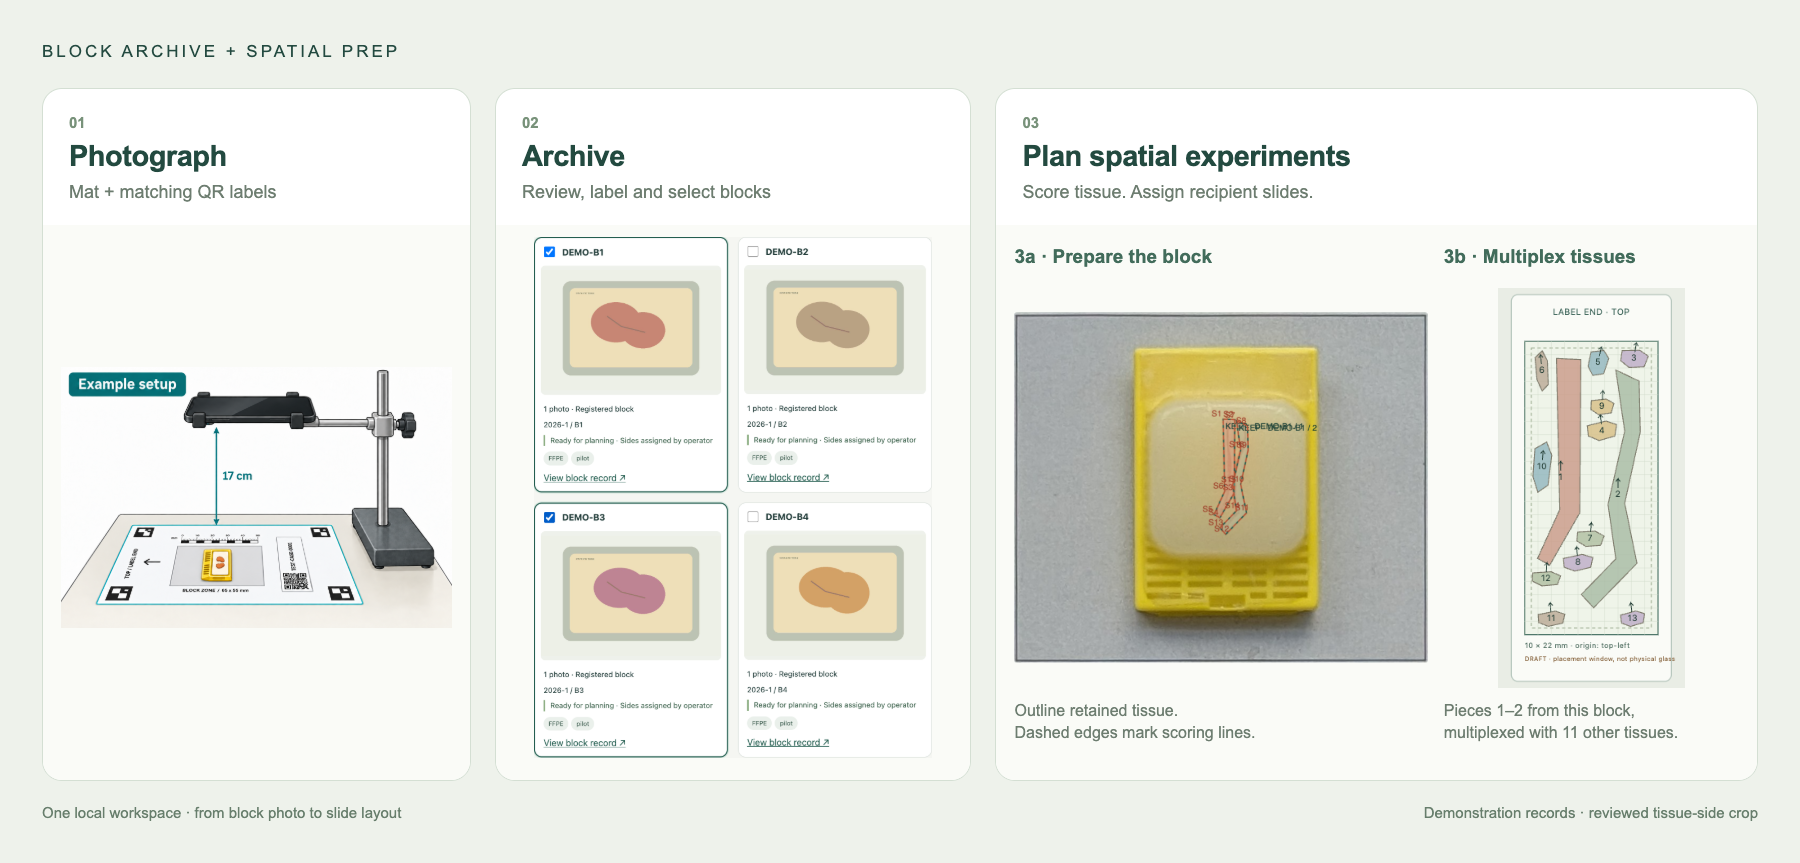
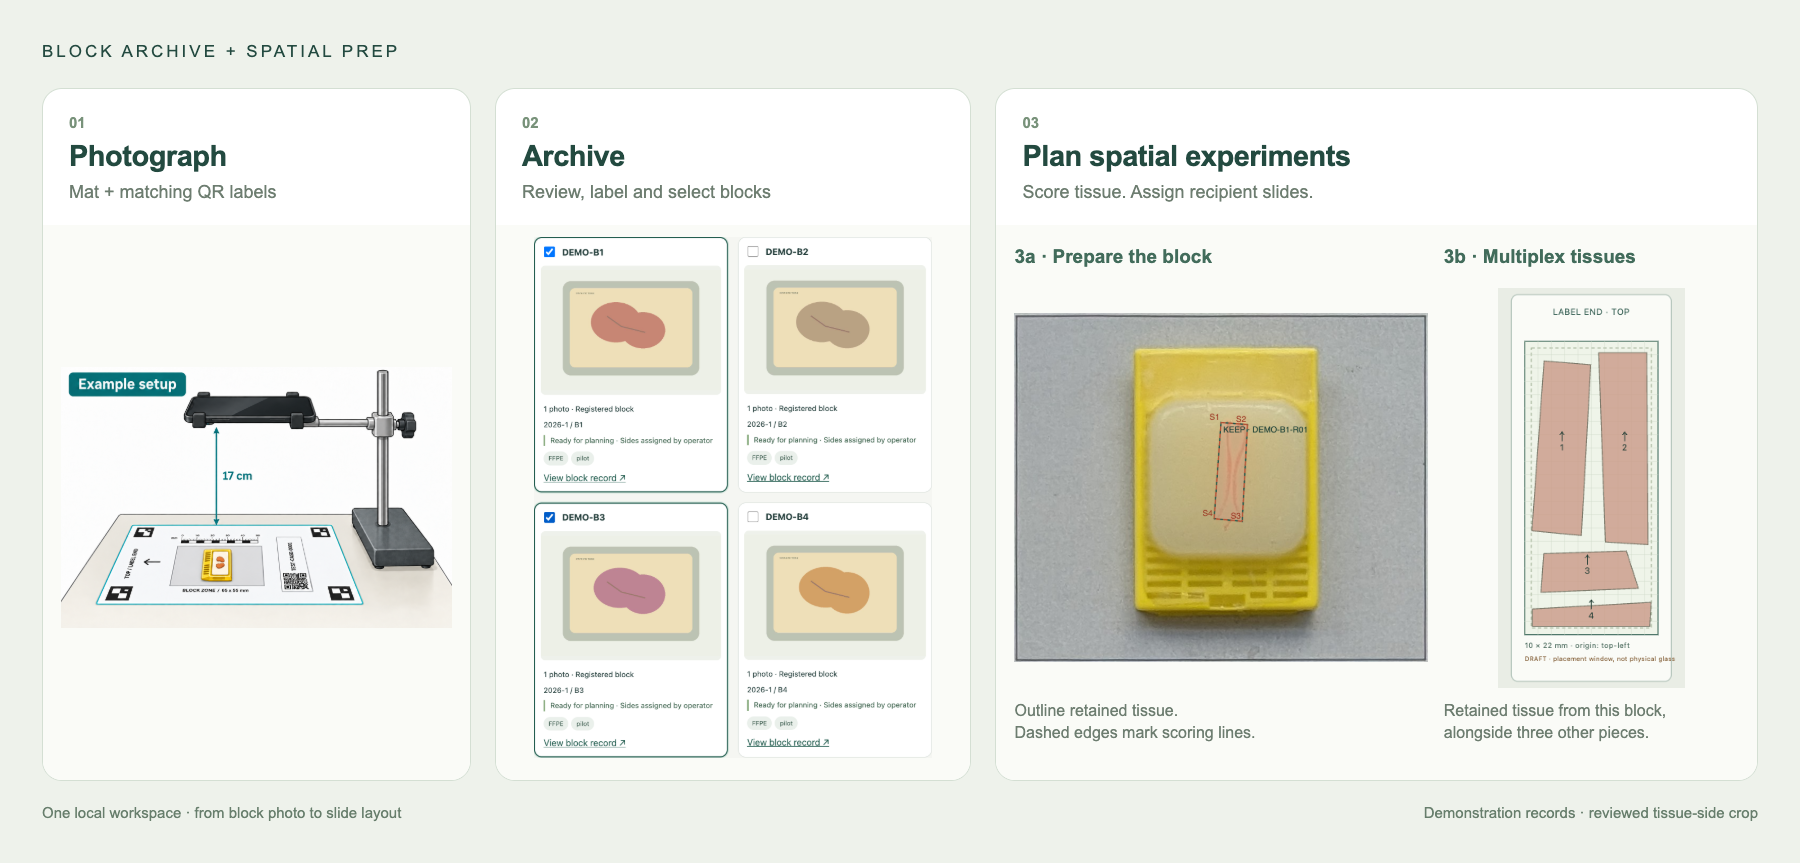
Refine README scoring example and enlarge annotation view

diff --git a/planner/style.css b/planner/style.css
@@ -4,4 +4,4 @@
 .shape-editor{max-width:1100px;width:94vw;max-height:92vh;overflow:auto}.shape-source{width:100%;max-height:55vh;touch-action:none;background:#eee}.shape-source circle{cursor:grab}.shape-preview svg{width:100%;height:45vh}.shape-editor .toolbar input{width:120px}.shape-editor .toolbar label{font-size:12px}.shape-editor .two-col{grid-template-columns:1fr 1fr}
 .experiment-actions{display:flex;flex-wrap:wrap;gap:8px;align-items:center;border-bottom:1px solid var(--line);padding-bottom:16px;margin-bottom:24px}.experiment-actions #saveStatus{margin-left:auto}.slide-overview-list{display:grid;gap:6px;margin-top:16px}.slide-overview-row{display:grid;grid-template-columns:30px minmax(120px,1fr) 80px auto;align-items:center;gap:12px}.block-slide-assignment{margin:16px 0;background:#f5f8f1}.block-slide-assignment .region-row{flex-wrap:wrap}.slide-overview-row input{min-width:0}@media(max-width:650px){.workspace{flex-direction:column}.workspace aside{width:100%;padding:16px}.workspace aside nav{display:flex;flex-wrap:wrap;margin-top:12px}.sidebar-bottom{display:none}.slide-overview-row{grid-template-columns:24px minmax(80px,1fr)}.slide-overview-row>button{grid-column:2}.experiment-actions #saveStatus{display:block}.block-slide-assignment .fields{grid-template-columns:1fr}}
 
-.annotation-workspace{border:1px solid var(--line);border-radius:10px;background:#fff;margin:16px 0;overflow:clip}.annotation-controls{position:sticky;top:0;z-index:2;background:#fff;padding:8px 12px;border-bottom:1px solid var(--line)}.annotation-controls .toolbar{margin:4px 0}.annotation-controls button{padding:6px 9px;font-size:12px}.annotation-workspace .photo-area{position:relative;height:clamp(220px,48vh,420px);max-height:none;overflow:auto;border:0;border-radius:0;overscroll-behavior:contain}.annotation-workspace #blockCanvas{margin:0 auto;max-width:none}.annotation-workspace #drawHint{padding:8px 12px;margin:0;font-size:12px}.annotation-workspace + .block-slide-assignment{margin-top:16px}
+.annotation-workspace{border:1px solid var(--line);border-radius:10px;background:#fff;margin:16px 0;overflow:clip}.annotation-controls{position:sticky;top:0;z-index:2;background:#fff;padding:8px 12px;border-bottom:1px solid var(--line)}.annotation-controls .toolbar{margin:4px 0}.annotation-controls button{padding:6px 9px;font-size:12px}.annotation-workspace .photo-area{position:relative;height:clamp(240px,56vh,520px);max-height:none;overflow:auto;border:0;border-radius:0;overscroll-behavior:contain}.annotation-workspace #blockCanvas{margin:0 auto;max-width:none}.annotation-workspace #drawHint{padding:8px 12px;margin:0;font-size:12px}.annotation-workspace + .block-slide-assignment{margin-top:16px}

diff --git a/tools/render_readme.py b/tools/render_readme.py
@@ -76,34 +76,19 @@ def main():
                 page.wait_for_function('() => typeof state!=="undefined" && !!state')
                 page.evaluate('''photo => {
                     state=emptyExperiment('Pilot');
-                    const points=[[[394,201],[416,202],[415,340],[388,387],[377,381],[397,337]],[[419,204],[440,214],[441,260],[427,324],[438,378],[399,418],[388,406],[419,374],[412,325],[427,259]]];
-                    const b={id:'demo-block',name:'DEMO-B1',donor:'',photo,identifier:null,mmPerPx:65/780,calibration:null,orientation:'Label end up',notes:'Synthetic demonstration',scores:[],regions:points.map((p,i)=>({id:'piece-'+i,name:'DEMO-B1 / '+(i+1),points:p,color:['#ca9987','#a7baa3'][i]}))};
-                    state.blocks=[b];state.slides[0].placements=points.map((p,i)=>({id:'place-'+i,regionId:'piece-'+i,x:i?7:2.7,y:i?11.5:10.2,angle:0,mirror:false,confirmed:true,section:'Section '+(i+1)}));
-                    // Additional demonstration blocks create a multiplexed layout.
-                    // Sizes are in millimetres; the photographed block keeps its real scale.
+                    const points=[[[390,207],[440,211],[430,394],[377,389]]];
+                    const b={id:'demo-block',name:'DEMO-B1',donor:'',photo,identifier:null,mmPerPx:.07,calibration:null,orientation:'Label end up',notes:'Illustrative scoring demonstration',scores:[],regions:points.map((p,i)=>({id:'piece-'+i,name:'DEMO-B1-R01',points:p,color:'#ca9987'}))};
+                    state.blocks=[b];state.slides[0].placements=[{id:'place-0',regionId:'piece-0',x:2.8,y:8,angle:0,mirror:false,confirmed:true,section:'Section 1'}];
+                    // Four-piece arrangement matching the supplied slide-layout example.
                     const patches=[
-                        [2,1.8,2,1.4,8], [5,1.8,2.2,1.4,-6], [8.3,2,1.4,2,12],
-                        [8.65,6.7,.9,3,-5],
-                        [2,11.1,2,1.2,5], [5.1,11.1,2.2,1.2,-5], [8.2,11.1,1.7,1.2,3],
-                        [1.55,15.9,1.3,3.8,4],
-                        [2,20.8,2,1.1,-4], [5.1,20.8,2.1,1.1,3], [8.1,20.8,1.8,1.1,-7]
+                        {points:[[0,0],[3.6,0],[3.7,14.4],[.5,14.2]],x:7.5,y:8},
+                        {points:[[.2,.2],[6.4,0],[7.3,2.8],[0,3.1]],x:4.7,y:17.25},
+                        {points:[[0,.5],[8.9,0],[8.8,1.8],[0,1.8]],x:5,y:20.6}
                     ];
-                    const palette=['#bdacc7','#d7be85','#91b6be','#baa995','#afbea0'];
-                    patches.forEach(([x,y,w,h,angle],i)=>{
-                        const outline=[[0,.15*h],[.65*w,0],[w,.25*h],[.9*w,.85*h],[.35*w,h],[0,.7*h]];
-                        const region={id:'multiplex-'+i,name:'DEMO-B'+(i+2),points:outline,color:palette[i%palette.length]};
+                    patches.forEach((patch,i)=>{
+                        const region={id:'multiplex-'+i,name:'DEMO-B'+(i+2),points:patch.points,color:'#ca9987'};
                         state.blocks.push({id:'other-block-'+i,name:region.name,donor:'',photo:null,identifier:null,mmPerPx:1,calibration:null,orientation:'Demonstration',notes:'Illustrative tissue geometry',scores:[],regions:[region]});
-                        const placement={id:'other-place-'+i,regionId:region.id,x,y,angle,mirror:false,confirmed:true,section:'Section 1'};
-                        const fits=()=>{const polygon=placed(placement);return polygon.every(([px,py])=>px>=.5&&px<=9.5&&py>=.5&&py<=21.5)&&state.slides[0].placements.every(other=>Geo.distance(polygon,placed(other))>.5)};
-                        if(!fits()){
-                            let found=false;
-                            search:for(const rotation of [angle,0,90])for(let py=1;py<=21;py+=.3)for(let px=1;px<=9;px+=.3){
-                                Object.assign(placement,{x:px,y:py,angle:rotation});
-                                if(fits()){found=true;break search}
-                            }
-                            if(!found)throw Error('Demonstration tissue does not fit');
-                        }
-                        state.slides[0].placements.push(placement);
+                        state.slides[0].placements.push({id:'other-place-'+i,regionId:region.id,x:patch.x,y:patch.y,angle:0,mirror:false,confirmed:true,section:'Section 1'});
                     });
                     blockId=b.id;slideId=state.slides[0].id;selected=null;tab='slides';save();render();
                     const problems=issues(currentSlide()).filter(message=>/outside permitted|true polygon overlap|clearance is/.test(message));
@@ -111,7 +96,8 @@ def main():
                 }''',data_url(ROOT/'docs/assets/tissue-block.jpg'))
                 planning=folder/'planning.png';page.locator('#slideSvg').screenshot(path=str(planning))
                 page.evaluate("async () => {tab='blocks';render();await drawBlock()}")
-                scoring=folder/'scoring.png';page.locator('#blockCanvas').screenshot(path=str(scoring))
+                scoring=folder/'scoring.png'
+                scoring.write_bytes(base64.b64decode(page.locator('#blockCanvas').evaluate("canvas=>canvas.toDataURL('image/png').split(',')[1]")))
                 # Compose existing setup illustration and actual UI captures in HTML.
                 setup=ROOT/'planner/artefacts/examples/phone-stand-17cm.png'
                 cards=[('01','Photograph','Mat + matching QR labels',setup),('02','Archive','Review, label and select blocks',archive),('03','Plan spatial experiments','Score tissue. Assign recipient slides.',planning)]
@@ -119,7 +105,7 @@ def main():
                 for step,title,subtitle,path in cards:
                     html+=f'<section class="panel"><div class="head"><div class="step">{step}</div><h2>{title}</h2><p>{subtitle}</p></div>'
                     if step=='03':
-                        html+=f'<div class="image split"><div class="subpanel"><h3>3a · Prepare the block</h3><img src="{data_url(scoring)}"><p>Outline retained tissue.<br>Dashed edges mark scoring lines.</p></div><div class="subpanel"><h3>3b · Multiplex tissues</h3><img src="{data_url(planning)}"><p>Pieces 1–2 from this block,<br>multiplexed with 11 other tissues.</p></div></div>'
+                        html+=f'<div class="image split"><div class="subpanel"><h3>3a · Prepare the block</h3><img src="{data_url(scoring)}"><p>Outline retained tissue.<br>Dashed edges mark scoring lines.</p></div><div class="subpanel"><h3>3b · Multiplex tissues</h3><img src="{data_url(planning)}"><p>Retained tissue from this block,<br>alongside three other pieces.</p></div></div>'
                     else:
                         html+=f'<div class="image"><img src="{data_url(path)}"></div>'
                     html+='</section>'

diff --git a/docs/assets/README.md b/docs/assets/README.md
@@ -4,7 +4,7 @@
 
 1. The existing reviewed `planner/artefacts/examples/phone-stand-17cm.png` illustration. It is synthetic, not a photograph of patient material. The example height is not a universal calibration requirement.
 2. A screenshot of the actual inventory UI running in a fresh temporary archive, with four generated synthetic block images and `DEMO` identifiers. The fixed selection tray is hidden for the cropped panel.
-3. Two actual app captures: a real tissue-side crop with demonstration retained-piece outlines and dashed scoring lines, followed by those same pieces (1–2) multiplexed with 11 additional demonstration tissue polygons on a recipient slide. The outlines and placements are illustrative, not an actual experiment plan.
+3. Two actual app captures: a real tissue-side crop with demonstration retained-piece outlines and dashed scoring lines, followed by that retained piece alongside three additional demonstration tissue polygons on a recipient slide. The outlines and placements are illustrative, not an actual experiment plan.
 
 `tissue-block.jpg` is an existing tissue-side crop explicitly approved by the maintainer for this documentation. It was visually checked for visible identifiers and checked for EXIF, comments and XMP metadata before inclusion. It contains only the block and mat background; its filename and demonstration labels do not link to a case. The renderer reads this reviewed asset, not a live archive, OCR output or existing browser profile. No redaction is relied upon. The image was visually reviewed and its SHA-256 is recorded in `tools/reviewed-docs.sha256`; the publication audit rejects unreviewed binary changes.
 
